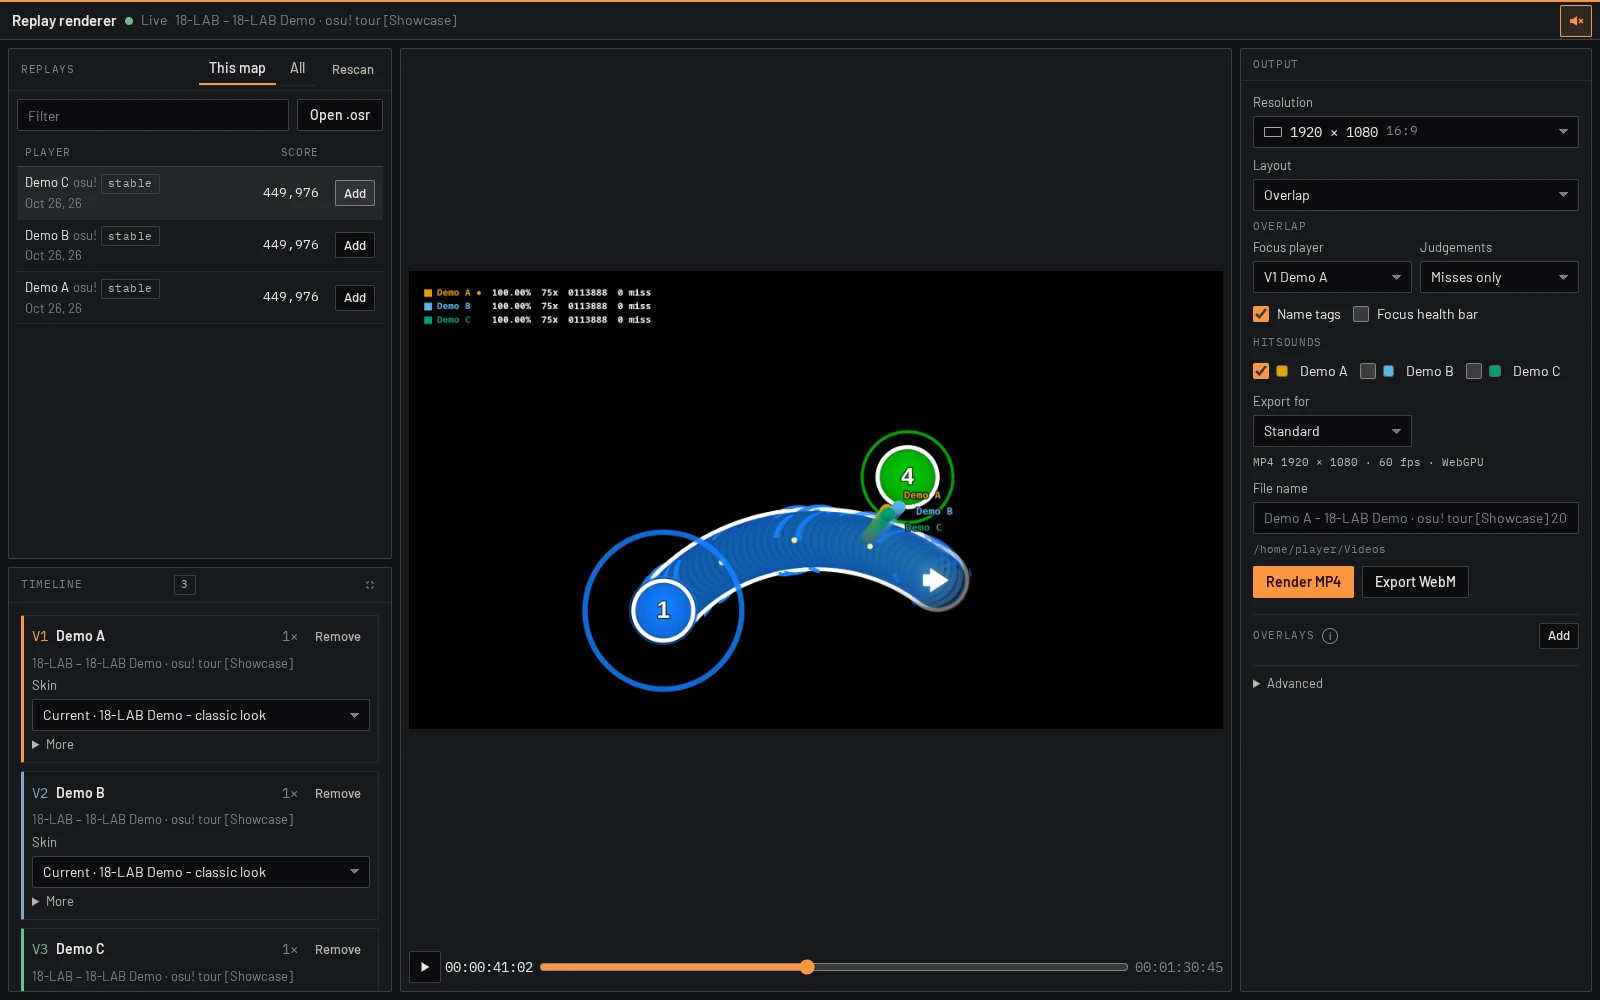
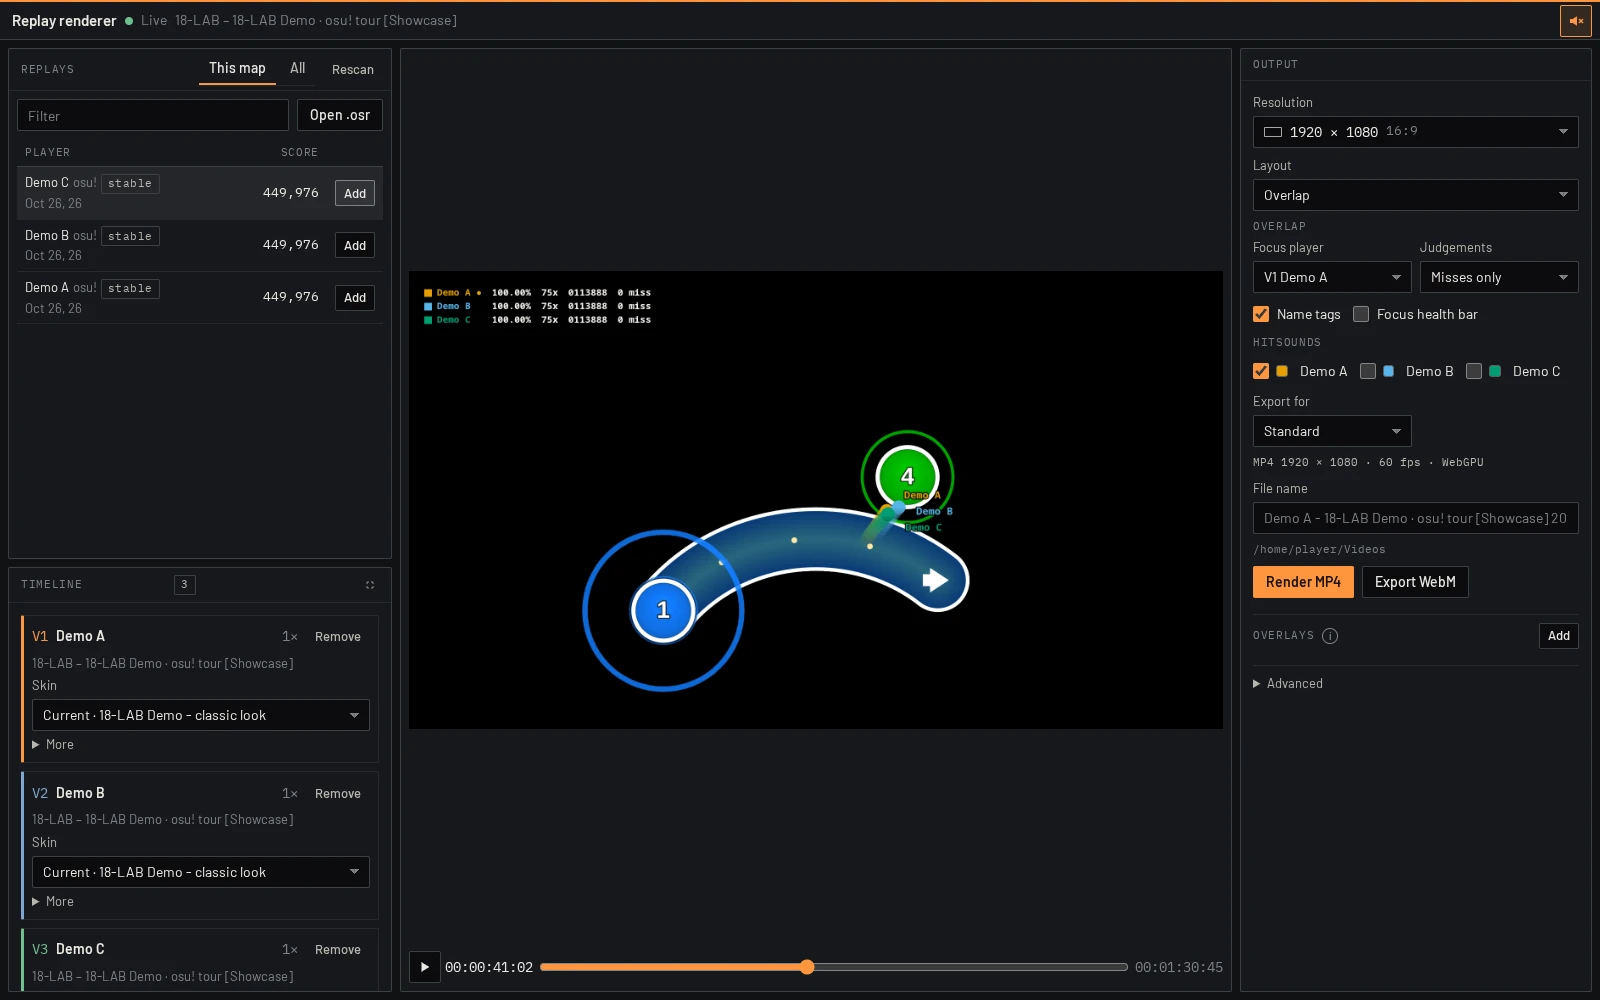
docs: playfield previews with lazer-faithful slider bodies
Re-take map preview, practice and replay renderer on render-core from
e439b39: smooth, complete slider bodies. The practice capture steps its
playhead with the timeline's keyboard control to a moment where the slider
has faded in fully.

Changed region(s): [[0.4062, 0.496, 0.625, 0.62]]

diff --git a/docs/screenshots/README.md b/docs/screenshots/README.md
@@ -10,12 +10,12 @@ The README's pictures are real tool pages at 1600×1000 in the dark theme, with 
 | File | Shows | Data | Size |
 | --- | --- | --- | --- |
 | `tools.webp` | Dashboard Tools page with all eight tools installed as official and trusted; vosulay (from vosu's other default source) is listed under Available with its icon and banner | **Official-catalog mode**: the latest published release from `18-lab-dev/vosu-tools` (v0.1.0, tag `f4255f1`), installed through vosu's normal catalog flow, captured 2026-10-26. `state.json` records `catalog_source` `18-lab-dev/vosu-tools`, `official: true` and `trusted: true` for every tool. The vosu was an unreleased debug build of vosu commit `8815406` (branch `fix/catalog-art`, which serves catalog card art through vosu) with the `test-harness` feature. No game attached. | 71 KiB |
-| `practice.webp` | 1.25×, Mirror and one kept section (0:20–0:39), with the preview (two circles, a ticked slider, approach circles) and the notes-per-second timeline | osu! tour; the packaged practice backend runs beside vosu with the map as its host context (a stand-in host, as in `tools/practice/tests/smoke.py`) | 69 KiB |
+| `practice.webp` | 1.25×, Mirror and one kept section (0:20–0:39), with the preview at 0:02.4 (a fully drawn slider with ticks, its reverse arrow and follow circle) and the notes-per-second timeline | osu! tour; the packaged practice backend runs beside vosu with the map as its host context (a stand-in host, as in `tools/practice/tests/smoke.py`) | 60 KiB |
 | `server-pp.webp` | Built-in Akatsuki and Mamestagram profiles plus the `rosu_reference` and `rust_example` calculators at 98.5 %, 2 misses, next to official pp | osu! tour, uploaded with `vosux server-pp`; calculators from `tools/server-pp/tests/fixtures/calculators` | 46 KiB |
 | `mania-ratings.webp` | Ratings, skillsets, rate curve, local MSD timeline, density | 7K tour, computed by the service through `vosux mania-ratings`; the page's selected-map request is answered with that map's ratings | 45 KiB |
 | `skin-studio.webp` | Keymodes tab: a 7K mix based on the classic look, whose note, hold head, body and tail come from the Triangles look in osu!'s 1/2/S column pattern | Skins exported from render-core (`18-LAB Demo - classic look`, `- Triangles look`) | 107 KiB |
-| `map-preview.webp` | Following the selected map at 0:39.050 (0.8× section): a circle, a ticked slider and approach circles, controls open | osu! tour; built-in Triangles | 59 KiB |
-| `replay-renderer.webp` | Three replays in the Overlap layout at the same moment | Generated replays of the osu! tour; exported classic look | 60 KiB |
+| `map-preview.webp` | Following the selected map at 0:39.050 (0.8× section): a circle, a fully drawn ticked slider and approach circles, controls open | osu! tour; built-in Triangles | 54 KiB |
+| `replay-renderer.webp` | Three replays in the Overlap layout at the same moment, over a circle and a fully drawn slider | Generated replays of the osu! tour; exported classic look | 59 KiB |
 | `downloader.webp` | Similar-stars results and the download queue | **Sample data**: synthetic `18-LAB Sample — Sample set NN` results and queue entries, because real results come from the osu! API or a mirror | 96 KiB |
 
 Not shown: real search results, map audio and backgrounds, lazer skins (these need a lazer installation for the Lazer library tool), and replays by real players.
